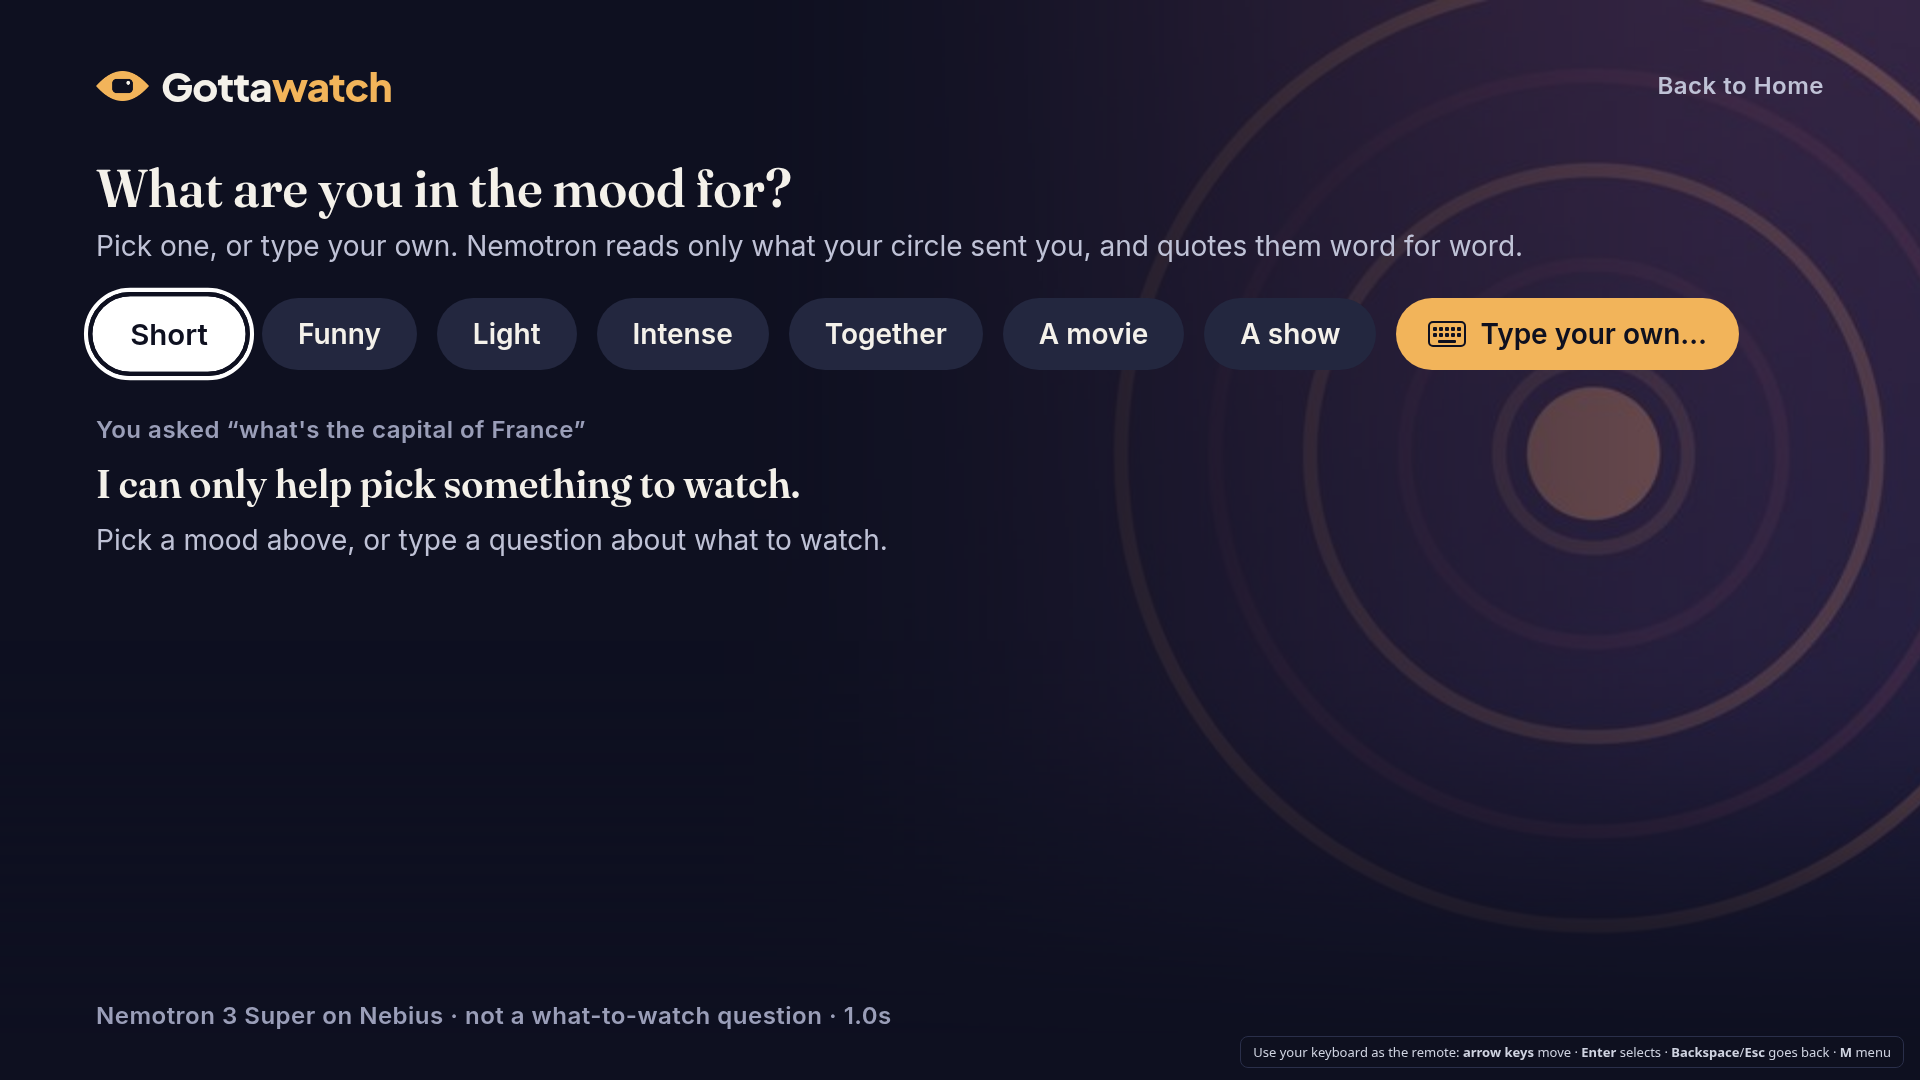
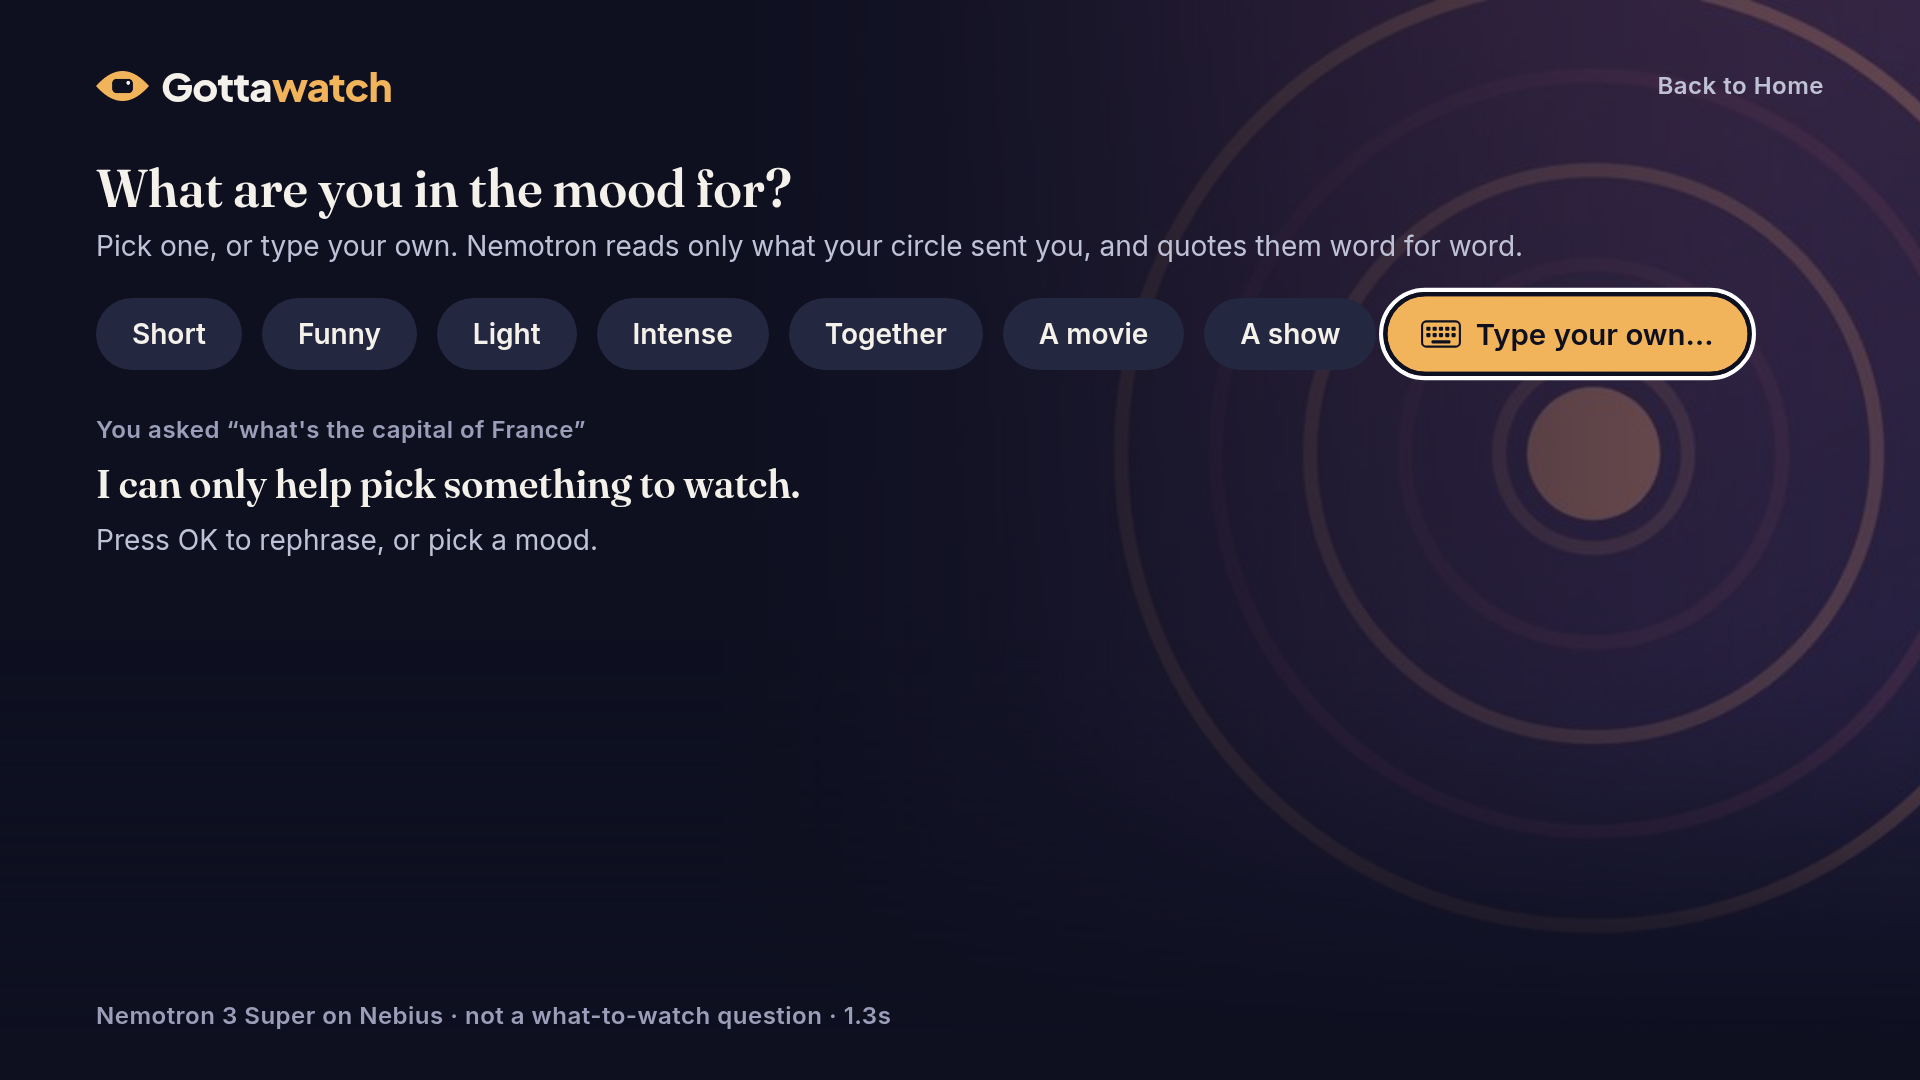
tv: keep focus on 'Type your own…' after a typed off_topic/no_match; off-topic hint 'Press OK to rephrase, or pick a mood.'; refresh off-topic screenshot (mock)

diff --git a/apps/tv/packages/shared-ui/src/gottawatch/screens/AskScreen.tsx b/apps/tv/packages/shared-ui/src/gottawatch/screens/AskScreen.tsx
@@ -8,6 +8,7 @@ import { ApiFailure, type ApiClient } from '../core/api';
 import {
   ASK_QUERY_MAX,
   askBackdropTitle,
+  askFocusAfter,
   askedLine,
   askErrorCopy,
   askTraceLine,
@@ -51,7 +52,6 @@ export function AskScreen({ api, token, active, cards, state, setState, onBack, 
   const [draft, setDraft] = useState('');
   const seq = useRef(0);
   const tileRef = useRef<SpatialNavigationNodeRef>(null);
-  const firstChipRef = useRef<SpatialNavigationNodeRef>(null);
   const inputRef = useRef<TextInput>(null);
 
   const stopTyping = useCallback(() => {
@@ -85,8 +85,8 @@ export function AskScreen({ api, token, active, cards, state, setState, onBack, 
         const r = input.query ? await api.ask(token, [], input.query) : await api.ask(token, [input.chip!]);
         if (n !== seq.current) return;
         setState({ k: 'ok', input, r });
-        // Not a what-to-watch question: send the viewer back to the moods.
-        if (r.status === 'off_topic') later(() => firstChipRef.current?.focus());
+        // Typed question (ok, no_match or off_topic): keep focus on the tile so OK rephrases.
+        if (askFocusAfter(input) === TYPED) later(() => tileRef.current?.focus());
       } catch (e) {
         if (e instanceof ApiFailure && e.kind === 'unauthorized') return onUnauthorized();
         if (n === seq.current) setState({ k: 'error', input, msg: askErrorCopy(e) });
@@ -129,7 +129,7 @@ export function AskScreen({ api, token, active, cards, state, setState, onBack, 
               <SpatialNavigationNode orientation="horizontal">
                 <View style={{ flexDirection: 'row' }}>
                   {TV_ASK_CHIPS.map((c, i) => {
-                    const btn = <Button ref={i === 0 ? firstChipRef : undefined} label={c.label} variant={current === c.id ? 'primary' : 'secondary'} onSelect={() => void ask({ chip: c.id })} />;
+                    const btn = <Button label={c.label} variant={current === c.id ? 'primary' : 'secondary'} onSelect={() => void ask({ chip: c.id })} />;
                     return (
                       <View key={c.id} style={{ marginRight: px(20) }}>
                         <DefaultFocus enable={current ? current === c.id : i === 0}>{btn}</DefaultFocus>

diff --git a/apps/tv/packages/shared-ui/src/gottawatch/core/__tests__/core.test.ts b/apps/tv/packages/shared-ui/src/gottawatch/core/__tests__/core.test.ts
@@ -276,7 +276,7 @@ describe('greeting uses the household zone, not the device clock zone', () => {
   });
 });
 
-import { ASK_QUERY_MAX, askBackdropTitle, askedLine, askErrorCopy, askSourceLine, askTraceLine, typedQuery, typingHint, TV_ASK_CHIPS, TV_NO_MATCH_HINT, TV_OFF_TOPIC_HINT } from '../ask';
+import { ASK_QUERY_MAX, askBackdropTitle, askFocusAfter, askedLine, askErrorCopy, askSourceLine, askTraceLine, typedQuery, typingHint, TV_ASK_CHIPS, TV_NO_MATCH_HINT, TV_OFF_TOPIC_HINT } from '../ask';
 
 describe('Ask on the TV', () => {
   it('mock ask returns contract-valid picks from the feed, movie chip narrows to the movie', async () => {
@@ -344,7 +344,12 @@ describe('Ask on the TV', () => {
     expect(none).toMatchObject({ status: 'no_match', picks: [], closest: { title: 'The Quiet Orchard' } });
     const off = await m.ask('wcd_x', [], "what's the capital of France");
     expect(off).toMatchObject({ status: 'off_topic', picks: [] });
-    expect(TV_OFF_TOPIC_HINT).toMatch(/mood above/);
+    expect(TV_OFF_TOPIC_HINT).toBe('Press OK to rephrase, or pick a mood.');
+  });
+  it('after an answer, focus stays on what asked: the typed tile (any status) or the chip', () => {
+    expect(askFocusAfter({ query: "what's the capital of France" })).toBe('typed');
+    expect(askFocusAfter({ query: 'a Korean horror movie' })).toBe('typed');
+    expect(askFocusAfter({ chip: 'short' })).toBe('short');
   });
   it('live client sends a typed question as the query with no chips', async () => {
     const f = vi.fn(async () => new Response(JSON.stringify({ status: 'off_topic', answer: 'x', picks: [], source: 'nemotron-agent', trace: [] }), { status: 200 }));

diff --git a/apps/tv/packages/shared-ui/src/gottawatch/core/ask.ts b/apps/tv/packages/shared-ui/src/gottawatch/core/ask.ts
@@ -26,11 +26,17 @@ export function askSourceLine(r: Pick<AskResult, 'source'> & { status?: AskResul
 
 /** Under a "nothing fits" answer: where to go next, without a keyboard. */
 export const TV_NO_MATCH_HINT = 'Try another mood, or ask a friend to send you one from their phone.';
-/** Under an off-topic answer (a typed question that isn't about what to watch). Focus returns to the moods. */
-export const TV_OFF_TOPIC_HINT = 'Pick a mood above, or type a question about what to watch.';
+/** Under an off-topic answer (a typed question that isn't about what to watch). Focus stays on "Type your own…". */
+export const TV_OFF_TOPIC_HINT = 'Press OK to rephrase, or pick a mood.';
 
 /** What was asked: a mood chip, or the household's own words (sent as the query, no chips). */
 export type AskInput = { chip: AskChip; query?: undefined } | { query: string; chip?: undefined };
+
+/** Where remote focus rests once an answer arrives: on the control that asked (a typed question keeps the
+ * "Type your own…" tile, whatever the status, so OK reopens the field to rephrase). */
+export function askFocusAfter(input: AskInput): 'typed' | AskChip {
+  return input.query ? 'typed' : input.chip!;
+}
 
 /** The typed question to send, or undefined when there is nothing to send (empty submit does nothing). */
 export function typedQuery(draft: string): string | undefined {
